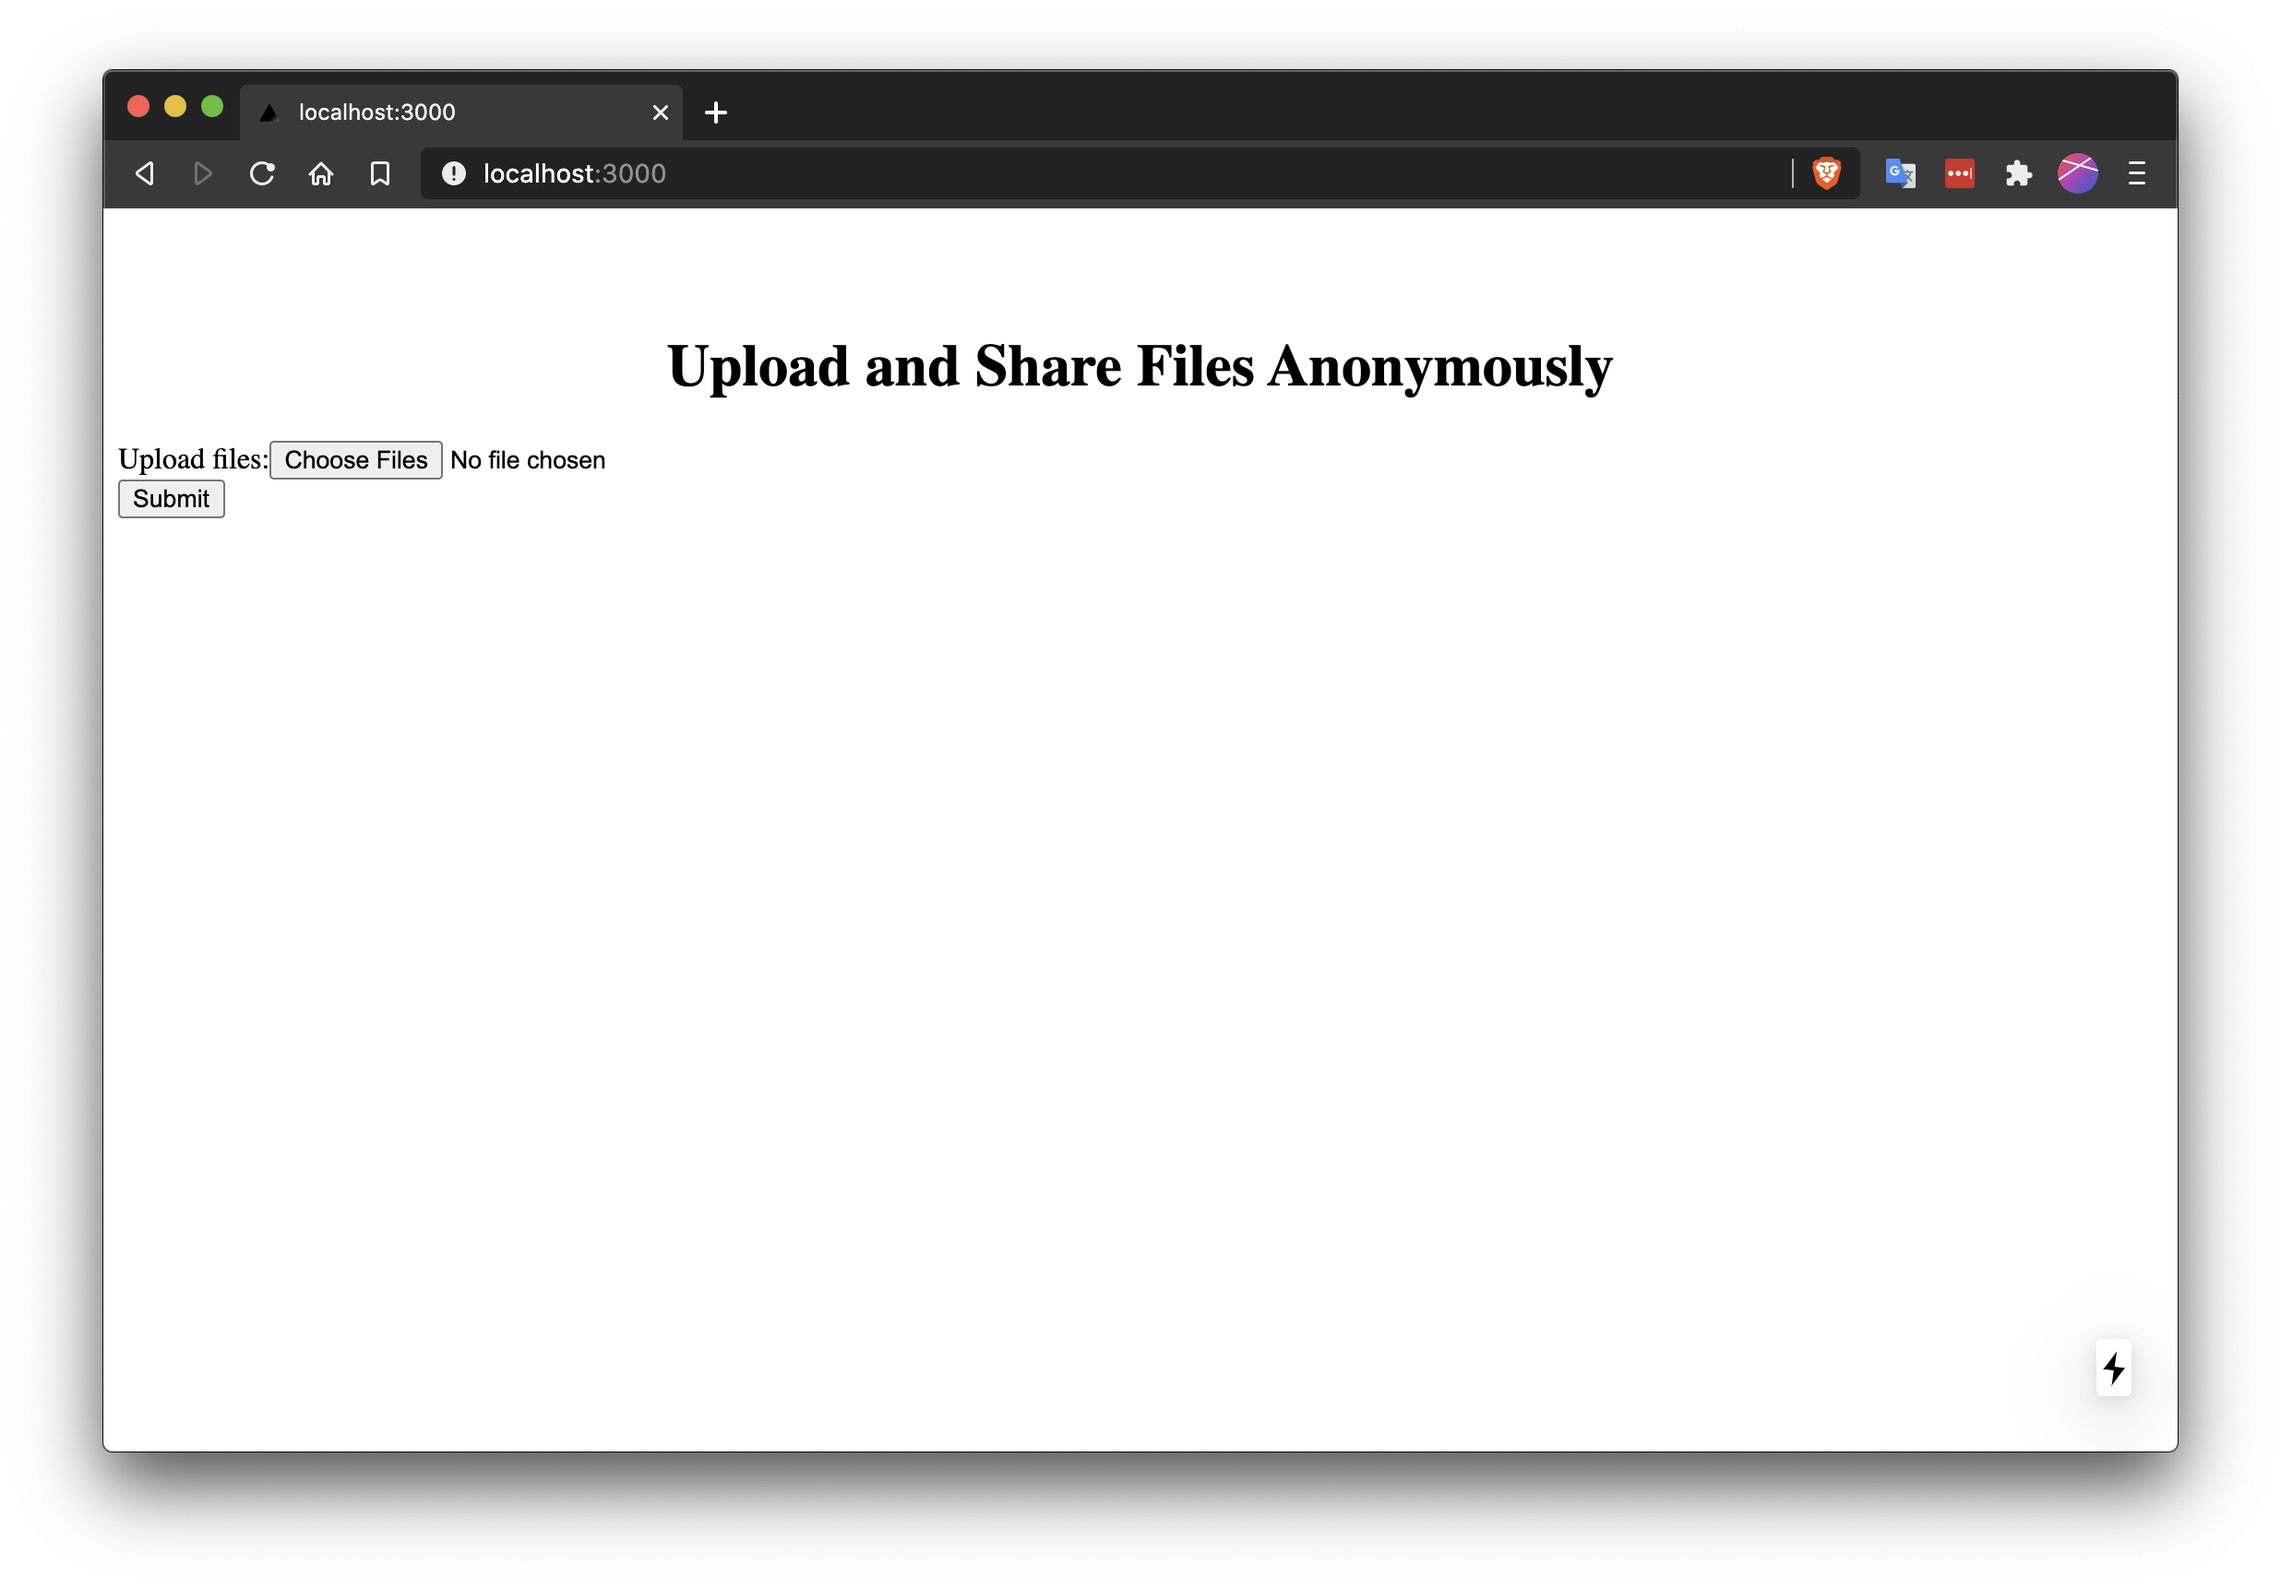
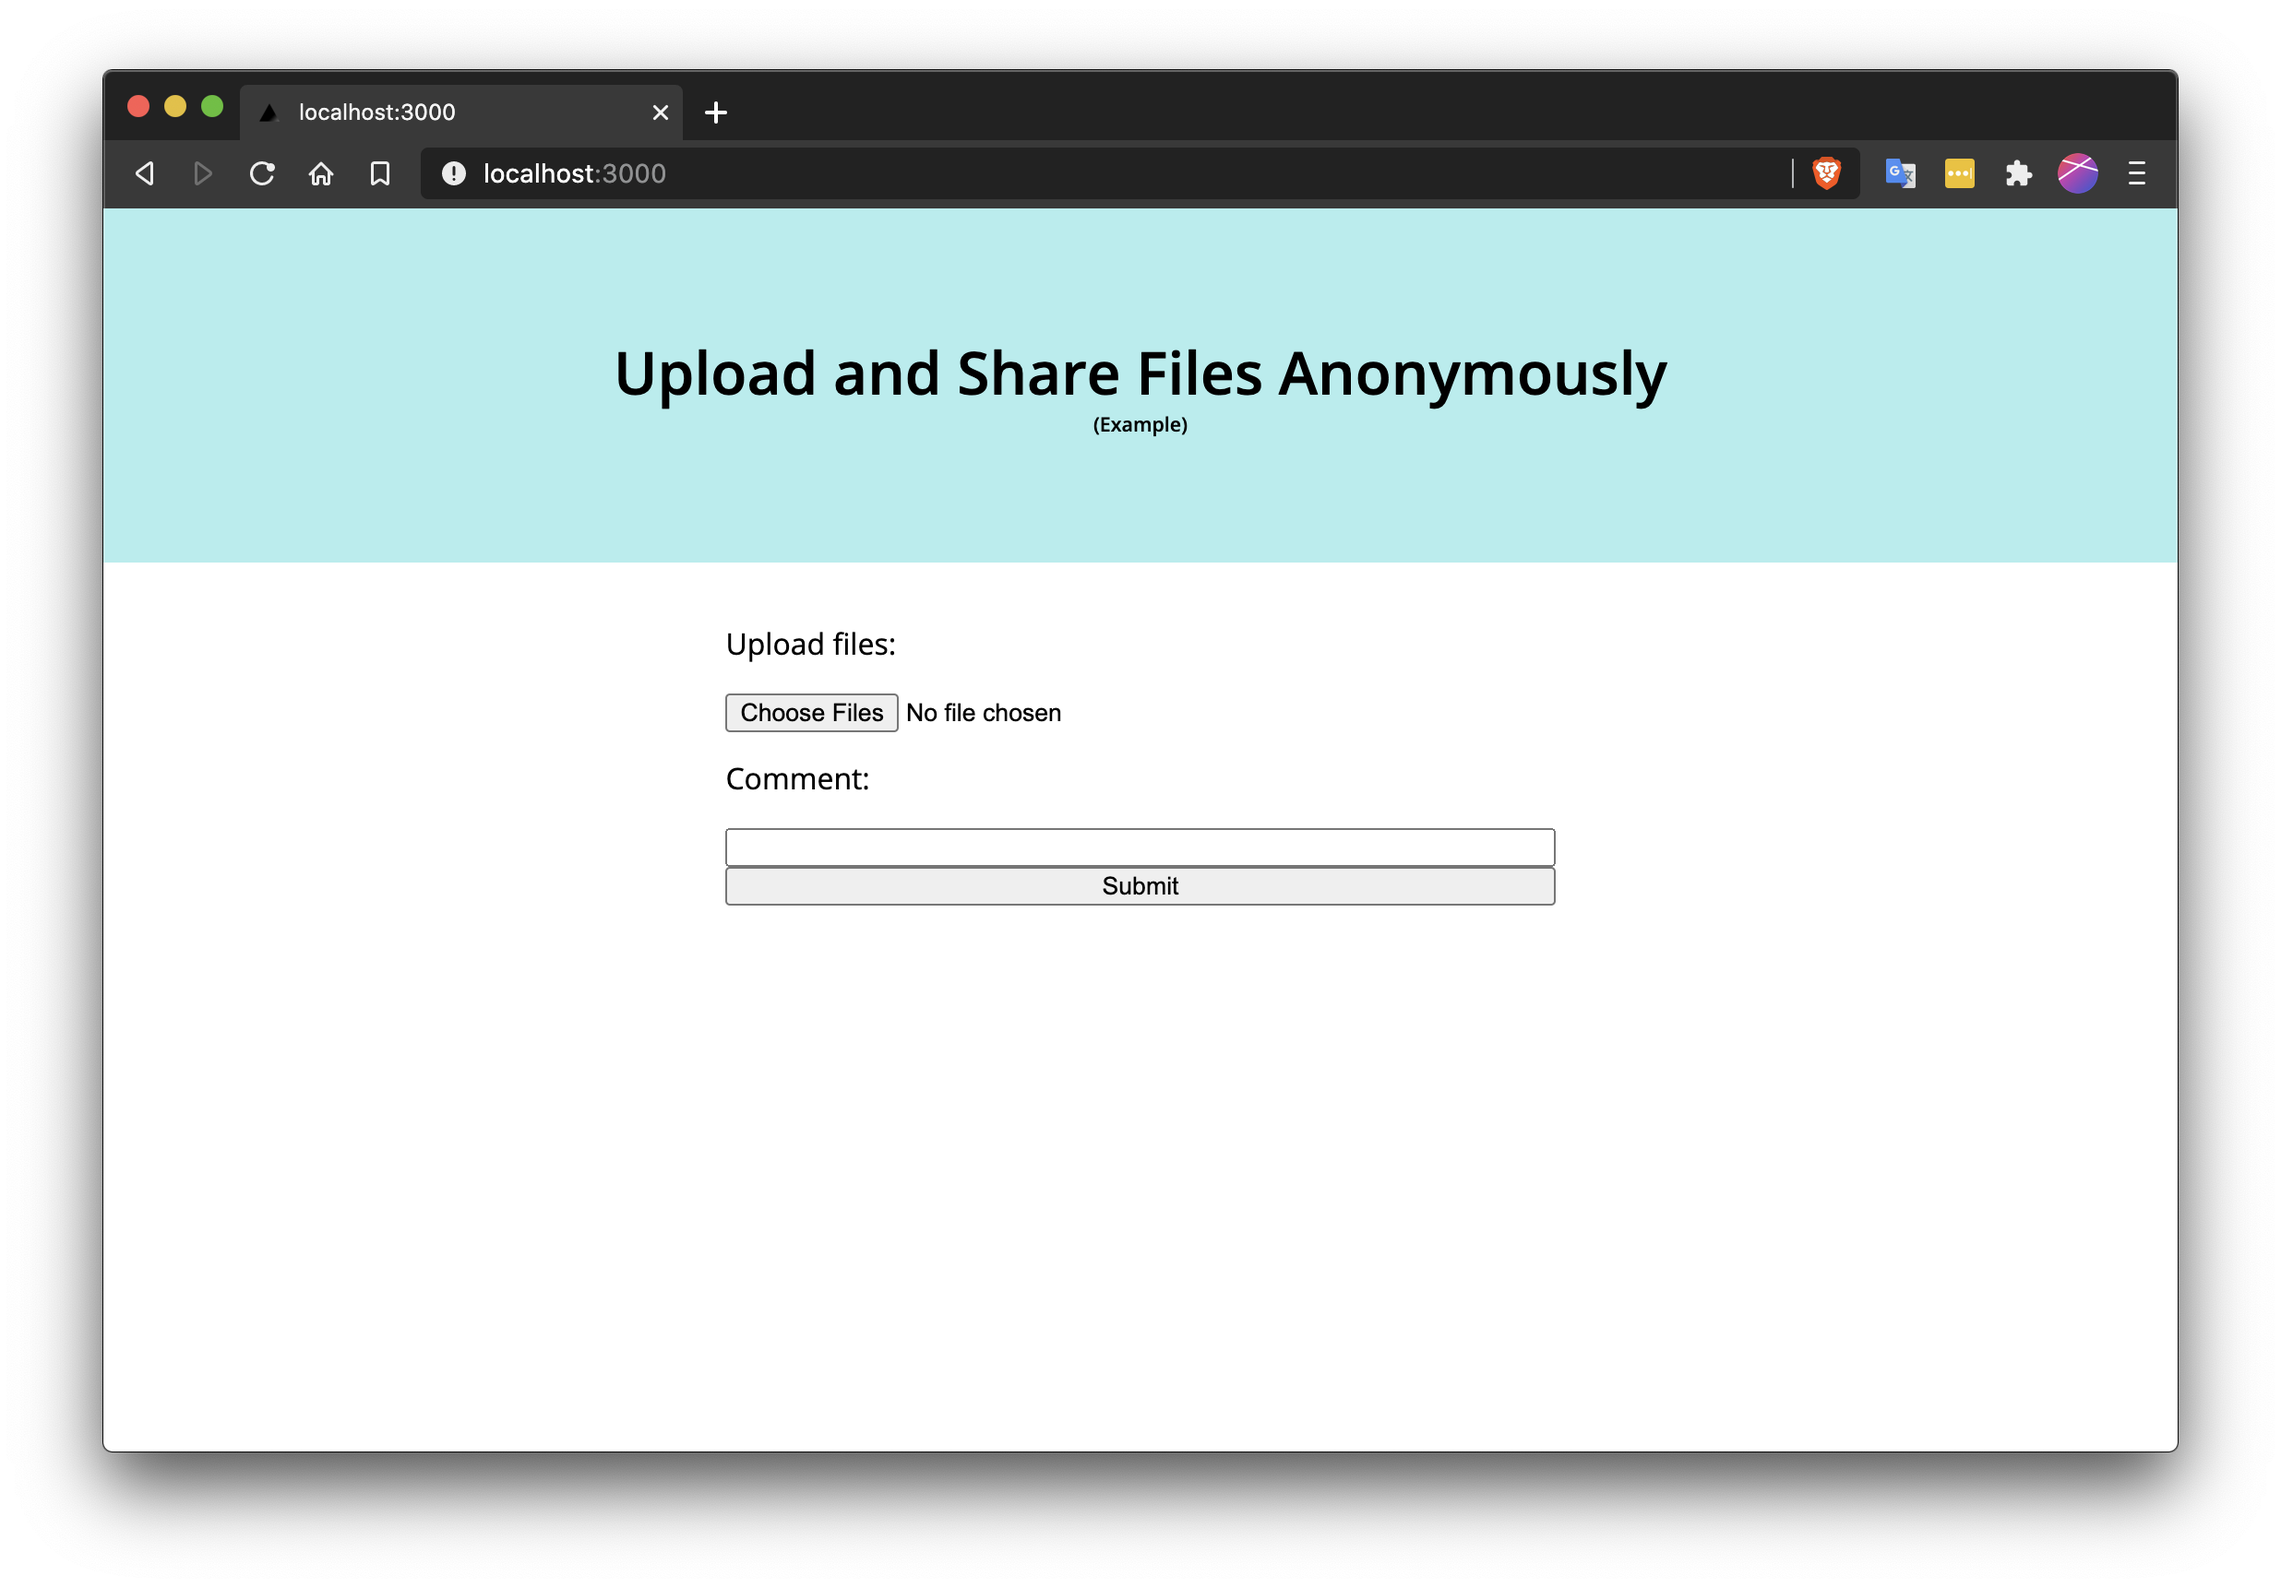
Some styling, comments

Changed region(s): [[0.0311, 0.0923, 0.9656, 0.3693], [0.3115, 0.4001, 0.4672, 0.4617], [0.4672, 0.554, 0.5295, 0.5848]]

diff --git a/frontend/pages/index.jsx b/frontend/pages/index.jsx
@@ -6,6 +6,7 @@ import theme from "../theme";
 
 const Home = () => {
     const [files, setFiles] = useState(null);
+    const [comment, setComment] = useState("");
 
     const uploadFiles = async (e) => {
         e.preventDefault();
@@ -15,6 +16,8 @@ const Home = () => {
         for (let file of files) {
             data.append("files", file);
         }
+
+        data.append("comment", comment);
 
         await axios({
             method: "POST",
@@ -32,30 +35,51 @@ const Home = () => {
 
     return (
         <div>
-            <h1 id="heading">Upload and Share Files Anonymously</h1>
+            <div id="heading">
+                <h1>Upload and Share Files Anonymously</h1>
+                <h6>(Example)</h6>
+            </div>
             <form onSubmit={(e) => uploadFiles(e)}>
-                <div>
-                    <label>Upload files:</label>
-                    <input
-                        type="file"
-                        id="file-upload"
-                        name="files"
-                        onChange={(e) => setFiles(e.target.files)}
-                        multiple
-                    />
-                </div>
+                <label>Upload files:</label>
+                <input
+                    type="file"
+                    id="file-upload"
+                    name="files"
+                    onChange={(e) => setFiles(e.target.files)}
+                    multiple
+                />
+                <label>Comment:</label>
+                <input
+                    type="text"
+                    onChange={(e) => setComment(e.target.value)}
+                    value={comment}
+                />
+
                 <input type="submit" />
             </form>
             <style jsx>{`
                 #heading {
-                    margin-top: 10vh;
+                    padding: 10vh 0;
+                    margin: 0;
                     text-align: center;
+                    background-color: paleturquoise;
                 }
 
-                form  {
+                h1,
+                h6 {
+                    margin: 0;
+                }
+
+                form {
                     display: flex;
                     justify-content: center;
                     flex-direction: column;
+                    padding: 5vh 30vw;
+                }
+
+                label,
+                input[type="file"] {
+                    margin-bottom: 1em;
                 }
             `}</style>
         </div>

diff --git a/frontend/pages/_document.jsx b/frontend/pages/_document.jsx
@@ -1,0 +1,43 @@
+import Document, { Html, Head, Main, NextScript } from "next/document";
+
+class MyDocument extends Document {
+    static async getInitialProps(ctx) {
+        const initialProps = await Document.getInitialProps(ctx);
+        return { ...initialProps };
+    }
+
+    render() {
+        return (
+            <Html>
+                <Head>
+                    <link
+                        href="https://fonts.googleapis.com/css2?family=Open+Sans:wght@400;600&display=swap"
+                        rel="stylesheet"
+                    />
+                    <style>
+                        {`
+                            body {
+                                font-family: Open Sans, sans-serif;
+                            }
+
+                            body, head, html {
+                                margin: 0;
+                                padding: 0;
+                            }
+
+                            h1, h2, h3, h4, h5, h6 {
+                                font-weight: 600;
+                            }
+                        `}
+                    </style>
+                </Head>
+                <body>
+                    <Main />
+                    <NextScript />
+                </body>
+            </Html>
+        );
+    }
+}
+
+export default MyDocument;
